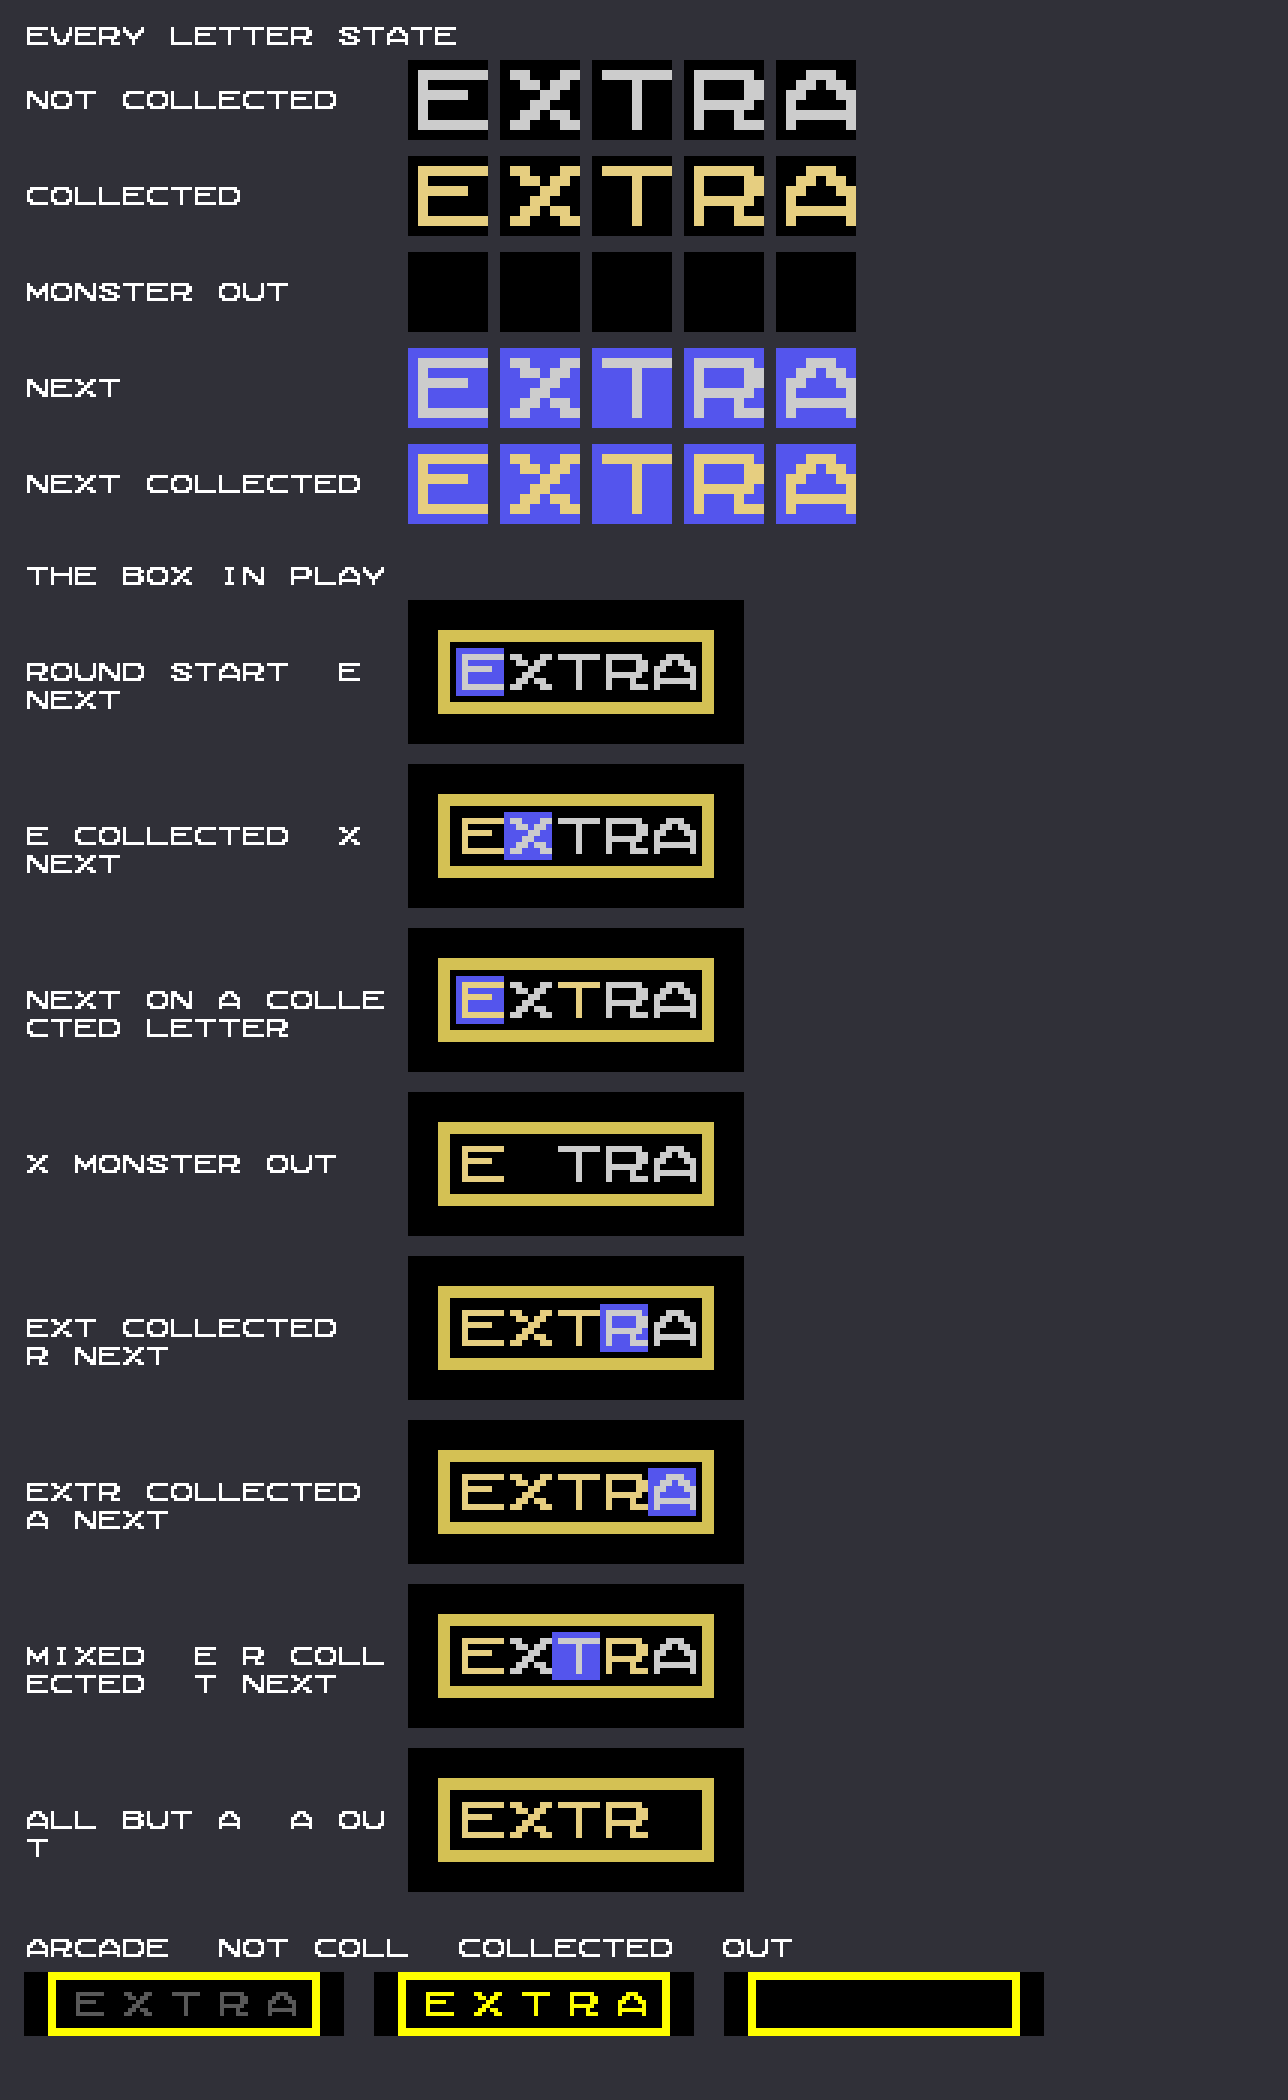
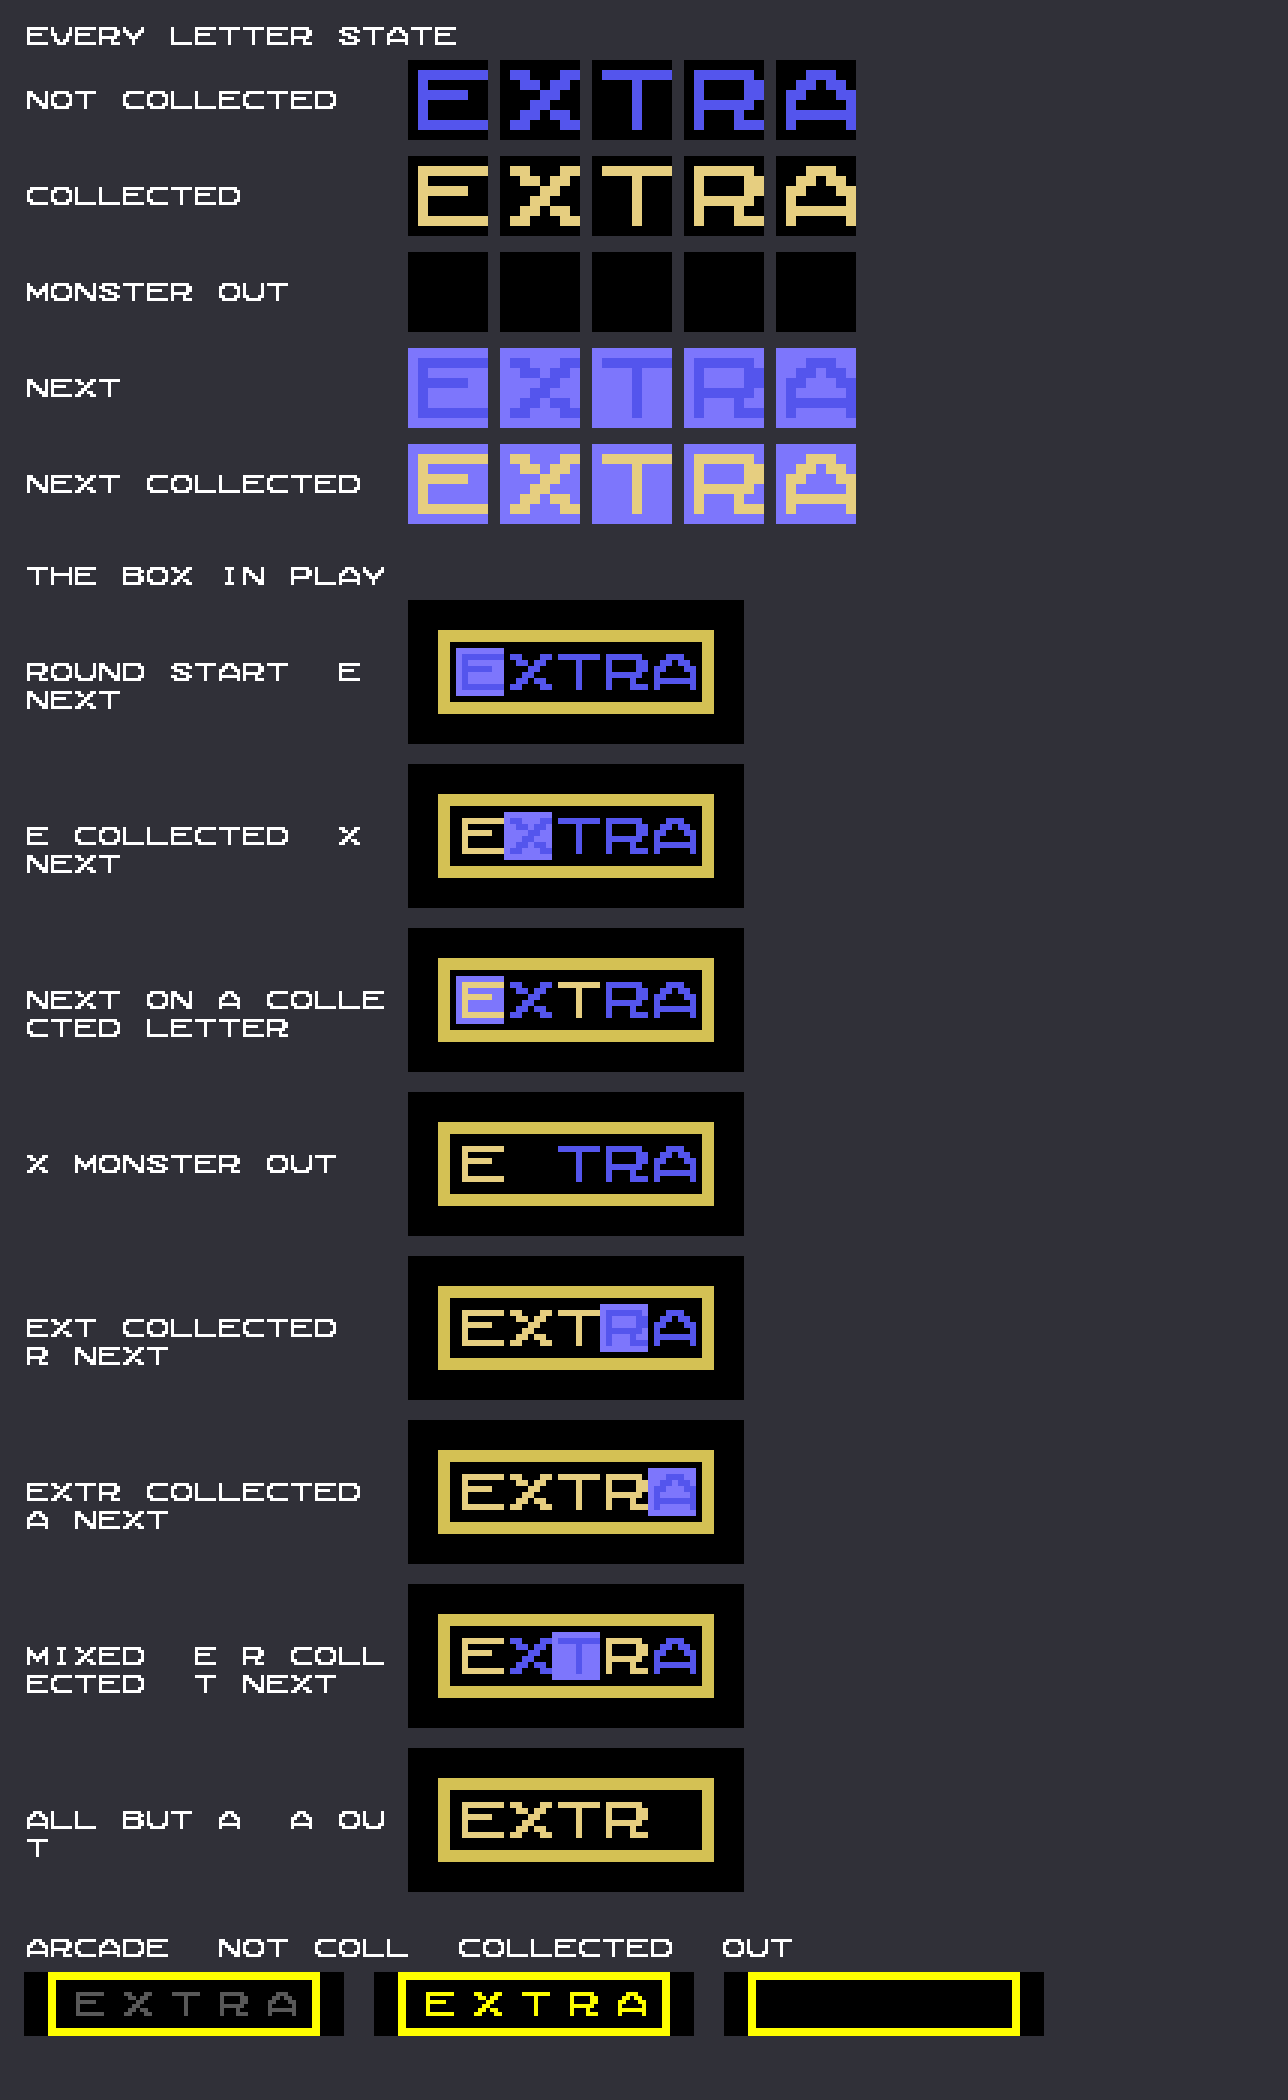
HUD EXTRA: not-collected letters dark blue, next-letter marker light blue

diff --git a/tools/gen_hud.py b/tools/gen_hud.py
@@ -14,7 +14,7 @@ like the MSX2 port's:
                              tiles (col 29 rows 12/14/15/17/18): $2D unlit,
                              $1A collected (light yellow), $25 out (black); the next letter (the
                              arcade's letter-monster sprite on the box) in its
-                             own colour on dark blue
+                             own colour on light blue
     row 17  SCENE..n         col 2 rows 17-21, 24, 25, 26
     row 19  TOP              col 1 rows 17-19
     row 20  top score        col 1 rows 21-26
@@ -67,11 +67,11 @@ LETTERS = [(12, 0x4E, 0x0E), (14, 0x52, 0x21), (15, 0x54, 0x1D),
 EX_ATTRS = [0x2D, 0x1A, 0x25]
 BOX_ROW, BOX_X0, BOX_X1 = 5, 0, 6    # frame rows 5-7, columns 0-6 of the panel
 # letter colours (user's pick, 2026-10-01, from artifacts/24-hud-extra):
-# not collected grey, collected light yellow; the next letter keeps
-# its own colour on the marker's dark blue
-UNLIT = 14                      # TMS grey
+# not collected dark blue, collected light yellow; the next letter keeps
+# its own colour on the marker's light blue
+UNLIT = 4                       # TMS dark blue
 COLLECTED = 11                  # TMS light yellow
-MARK_BG = 4                     # TMS dark blue
+MARK_BG = 5                     # TMS light blue
 
 
 def gcode(i):
@@ -127,7 +127,7 @@ def main():
 
     # The next letter: the arcade marks it with a letter-monster sprite on
     # the box (off our playfield); src/hud.asm finds that sprite and draws
-    # the letter with one of these instead: its own colour on dark blue.
+    # the letter with one of these instead: its own colour on light blue.
     marks = gcode(len(glyphs))
     for row, box, font in LETTERS:          # not collected yet
         art = fg_pixels(0x09, font)

diff --git a/CLAUDE.md b/CLAUDE.md
@@ -17,7 +17,7 @@ Arcade-faithful port of Mr. Do! (Universal 1982) to the ColecoVision + Super Gam
 - **Playfield:** all 13 arcade cell rows are kept (208px of play area against 192px of screen). An 8px-step vertical camera (offsets 0/8/16) follows Mr. Do. The logic and maze data stay byte-identical to the arcade; all screen fitting happens in the renderer. Never trim rows or patch coordinates in the logic.
 - **HUD:** the playfield is 24 tiles wide (cols 0-23); score, lives and EXTRA go in the 64px panel (cols 24-31), see the HUD notes below.
 - **Camera and Screen 2 thirds:** all three thirds share ONE pattern table ($0000) and ONE colour table ($2000) through the R4/R3 masks (R4=$00, R3=$9F), so a camera shift needs no tile moves and a tile set is 2 x 1792 bytes. Nothing may write per-third tile data.
-- **Playfield tile codes:** per colourway set, 0-162 generated (max 160 used), 163-175 the dessert score bg tiles $15-$21 (attr 9, written at pickup by $30FD into the plate cells $1CF/$1EF), 163 the dessert score's "00", 164 its other half (loaded at pickup from build/tiles/score.bin, hud.asm score_load), 165-171 HUD glyphs, 172-175 the resting apple over dirt (apples.asm), 176-179 the current dessert's plate (loaded on demand from the set's 48 plate tiles, hud.asm plate_load), 180-255 and 165-171 the HUD glyphs (83: white and grey scores, 2ND, EXTRA states: grey not collected, light yellow collected, the next letter in its own colour on dark blue (user, 2026-10-01; artifacts/24-hud-extra, tools/hud_extra_sheet.py)). hud_upload runs after the set upload, so the HUD's codes win. A playfield set's count byte is 180, so upload_set leaves the HUD codes alone.
+- **Playfield tile codes:** per colourway set, 0-162 generated (max 160 used), 163-175 the dessert score bg tiles $15-$21 (attr 9, written at pickup by $30FD into the plate cells $1CF/$1EF), 163 the dessert score's "00", 164 its other half (loaded at pickup from build/tiles/score.bin, hud.asm score_load), 165-171 HUD glyphs, 172-175 the resting apple over dirt (apples.asm), 176-179 the current dessert's plate (loaded on demand from the set's 48 plate tiles, hud.asm plate_load), 180-255 and 165-171 the HUD glyphs (83: white and grey scores, 2ND, EXTRA states: dark blue not collected, light yellow collected, the next letter in its own colour on light blue (user, 2026-10-01; artifacts/24-hud-extra, tools/hud_extra_sheet.py)). hud_upload runs after the set upload, so the HUD's codes win. A playfield set's count byte is 180, so upload_set leaves the HUD codes alone.
 - **HUD** (src/hud.asm, tools/gen_hud.py): the arcade's HUD strips (native columns 29-31 and 0-2) are mirrored into the panel, MSX2 layout, by (fg attr, fg tile) -> glyph; written to both name tables with spaced writes. Repainted after every playfield set upload that follows a screen or image (hud_ok = 0) and every full-redraw flip (bulk repaints only count cells); between two playfield sets (level <-> chomper session, level -> next level) only the glyphs at HUD_EXTRA0.. that the set overwrites are re-sent (hud_extra), and the panel is repainted right after the display is back on (hud_redo; ~70k T with the picture showing): the arcade draws the new SCENE number during its bulk repaint, when HUD cells are only counted. The blanked upload went from ~233k T (4 flat-colour frames at a dessert pickup) to ~77k T. Screens clear the panel to code 0.
 - **VRAM free for tables:** $0800-$13FF (IDC uses $0800+) and $2800-$37FF; $1400-$16FF is the second name table.
 - **Live tile set switch** (src/live.asm, 2026-10-01): between two playfield sets (level look <-> chomper session, dessert pickup) the display stays on: the new picture is redrawn into the hidden table as usual, live_try reads its playfield names back (~20-27 codes used), and at the start of the next NMI (inside vblank: ~3.5 ms of the 4.4) live_vblank writes just those codes back to back and flips; the other codes follow over ~12 vblanks (live_tick, LIVE_CHUNK 40, spaced); draw_cell writes a still-pending code first (live_out), a full redraw finishes the rest first (live_finish). Codes 164-171 (HUD glyphs) and 176-179 (plate) are never written by it (render reloads plate/score). > LIVE_MAX (24) codes or coming from a screen/image: the classic blanked upload. Apples stay sprites while up_pending (they had been tiled into the old table in the vblank before the flip: invisible 17 vblanks). Verified: VRAM PT/CT == the set after the remainder. Mid-repaint (the arcade rewrites attributes, then tiles: $06A1 / $06BE) the colourway cell holds a mixed pair; check_screens ignores it while the playfield is up and the pair still shares its tile (dirt_tile) or attribute (cw_vattr) with the colourway on screen (the instruction screen's signature $8B at $2A7 is also a tunnel tile: it blacked the field at a chomper session's end). The WONDERFUL branch sets cw_attr/cw_tile to $FF to pass that guard. The options screen code moved to bank 28 (options_b.asm, OPT_BANK) to make room in the fixed bank.
